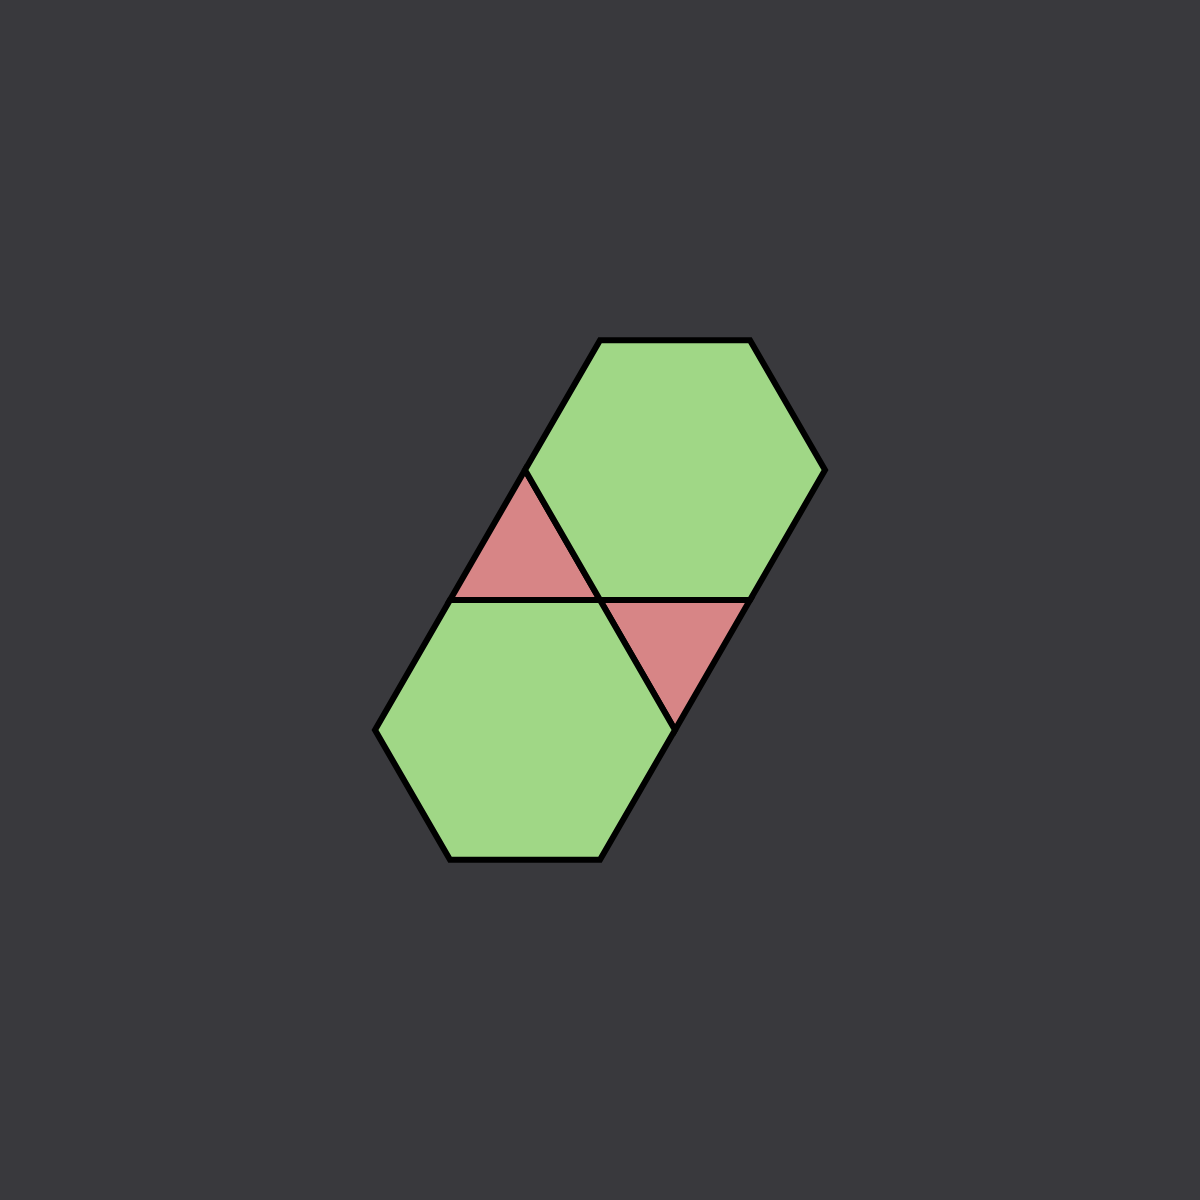
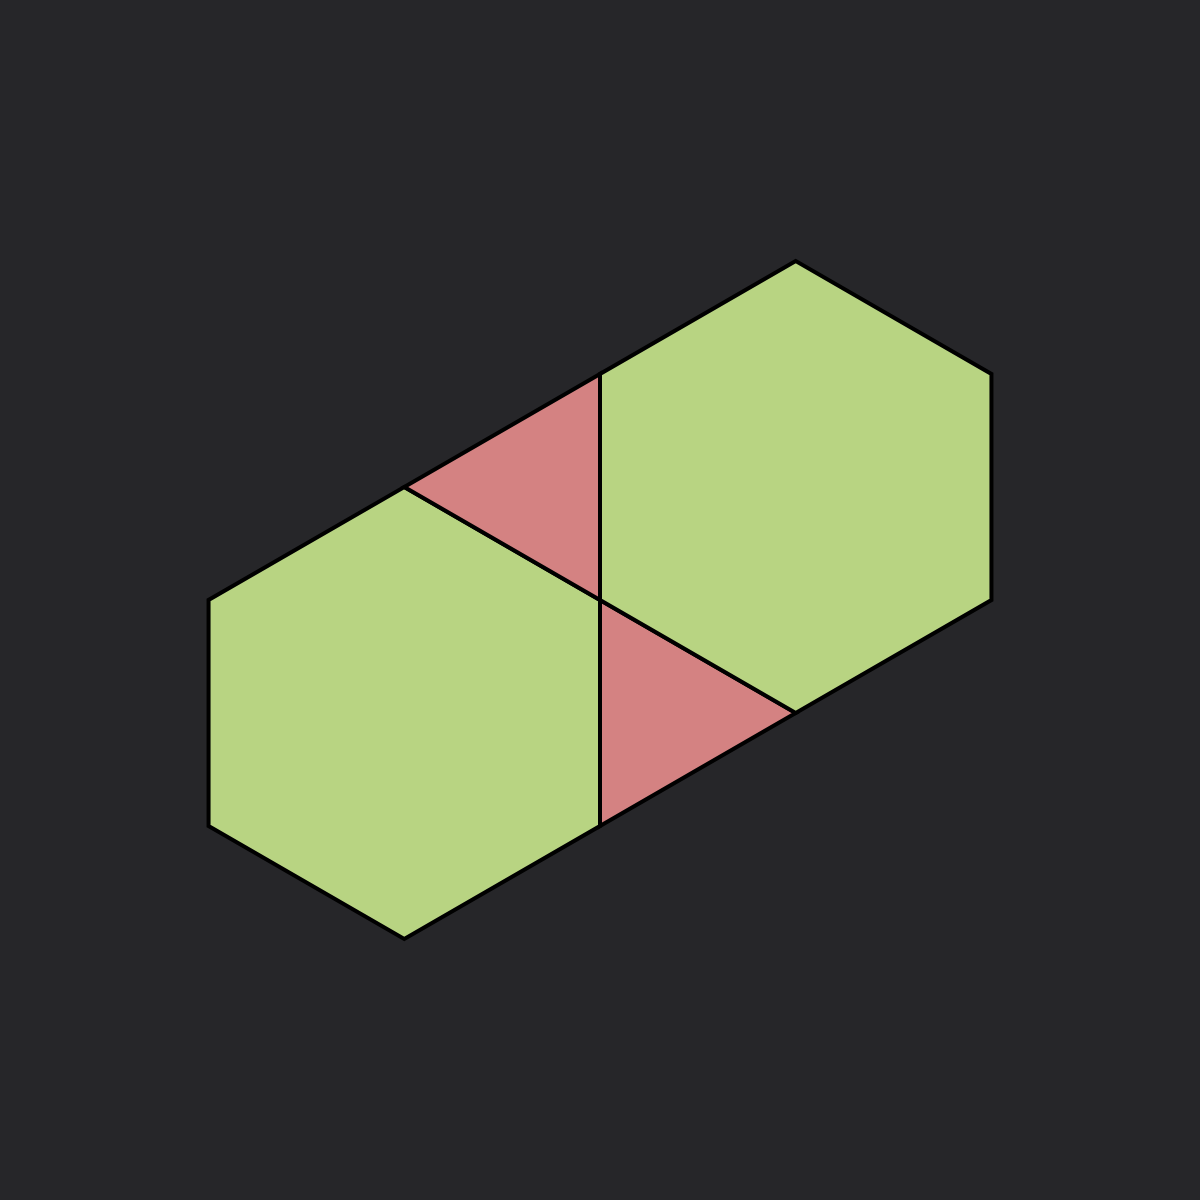
minor fixes

Changed region(s): [[0.1542, 0.2158, 0.8325, 0.8017]]

diff --git a/src/lib/components/Canvas.svelte b/src/lib/components/Canvas.svelte
@@ -1,6 +1,9 @@
 <script>
     import { ruleType, parameter, selectedTiling, showCR, debugView, side, transformSteps, patch, golRule, golRules, showConstructionPoints, showInfo, speed, screenshotButtonHover } from '$lib/stores/configuration.js';
     import { debugManager, debugStore, updateDebugStore } from '$lib/stores/debug.js';
+    import { isWithinTolerance } from '$lib/utils/math.svelte';
+    import { sortPointsByAngleAndDistance } from '$lib/utils/geometry.svelte';
+    import { Vector } from '$lib/classes/Vector.svelte.js';
     import * as ls from 'lucide-svelte';
     import { Tiling } from '$lib/classes/Tiling.svelte.js';
     import { Cr } from '$lib/classes/Cr.svelte.js';
@@ -259,11 +262,10 @@
         p5.takeScreenshot = () => {
             const filename = `${$selectedTiling.rulestring}.png`;
             
-            const screenshotCanvas = p5.createGraphics(600, 600);
-            
+            let screenshotCanvas = p5.createGraphics(600, 600);
+
             screenshotCanvas.colorMode(p5.HSB, 360, 100, 100);
             
-            screenshotCanvas.push();
             screenshotCanvas.translate(0, 600);
             screenshotCanvas.scale(1, -1);
             
@@ -273,8 +275,23 @@
             
             screenshotCanvas.stroke(0);
             screenshotCanvas.strokeWeight(2 / $side);
-            
+
+            let maxX = 0;
+            let maxY = 0;
+            let minX = 0;
+            let minY = 0;
+            for (let i = 0; i < tiling.nodes.length; i++) {
+                for (let j = 0; j < tiling.nodes[i].vertices.length; j++) {
+                    let vertex = tiling.nodes[i].vertices[j];
+                    if (vertex.x > maxX) maxX = vertex.x;
+                    if (vertex.y > maxY) maxY = vertex.y;
+                    if (vertex.x < minX) minX = vertex.x;
+                    if (vertex.y < minY) minY = vertex.y;
+                }
+            }
+
             screenshotCanvas.scale($side);
+            screenshotCanvas.translate(-(maxX + minX) / 2, -(maxY + minY) / 2);
             
             for (let i = 0; i < tiling.nodes.length; i++) {
                 screenshotCanvas.push();
@@ -359,10 +376,8 @@
                 }
             }
             
-            screenshotCanvas.pop();
-            
             p5.saveCanvas(screenshotCanvas, filename, 'png');
-            
+
             screenshotCanvas.remove();
             
             notificationMessage = `Screenshot saved as ${filename}`;

diff --git a/src/lib/classes/Polygon.svelte.js b/src/lib/classes/Polygon.svelte.js
@@ -209,8 +209,8 @@ export class DualPolygon extends Polygon {
         }
         
         let hash = 0;
-        let a = 37;
-        let b = 200;
+        let a = 31;
+        let b = 300;
         for (let i = 0; i < minRotation.length; i++)
             hash = (hash * a + minRotation[i]) % (b * PHI);
         

diff --git a/src/lib/components/Sidebar.svelte b/src/lib/components/Sidebar.svelte
@@ -362,9 +362,9 @@
 									id="side"
 									label="Side Length"
 									bind:value={$side}
-									min={1}
-									max={100}
-									step={1}
+									min={10}
+									max={150}
+									step={5}
 									unit="px"
 								/>
 

diff --git a/static/theory/tilings-and-automata.md b/static/theory/tilings-and-automata.md
@@ -10,7 +10,6 @@ When trying to analyze tilings in a rigorous way, the first thing we need to con
 
 Turns out that there are only 21 ways to do that:
 
-{.cols-10}
 | # | | | | | | | | | | |
 | :---: | :---: | :---: | :---: | :---: | :---: | :---: | :---: | :---: | :---: | :---: |
 | $3$ | ![3.7.42](../theory/images/vertexTypes/3.7.42.png) | ![3.8.24](../theory/images/vertexTypes/3.8.24.png) | ![3.9.18](../theory/images/vertexTypes/3.9.18.png) | ![3.10.15](../theory/images/vertexTypes/3.10.15.png) | ![3.12^2](../theory/images/vertexTypes/3.12^2.png) | ![4.5.20](../theory/images/vertexTypes/4.5.20.png) | ![4.6.12](../theory/images/vertexTypes/4.6.12.png) | ![4.8^2](../theory/images/vertexTypes/4.8^2.png) | ![5^2.10](../theory/images/vertexTypes/5^2.10.png) | ![6^3](../theory/images/vertexTypes/6^3.png) |
@@ -36,10 +35,10 @@ Regular tilings are composed of regular polygons arranged in a way that every ve
 
 Semi-regular tilings use two or more regular polygons, with the same arrangement of polygons at each vertex. There are eight semi-regular tilings (also known as Archimedean tilings):
 
-| ![3^4.6](../tilings/1Usr/6-3-3_r60_r(h5).png) | ![3.3.3.3.6](../tilings/1Usr/4-3_m90_r(h2).png) | ![3.3.3.4](../tilings/1Usr/4-3-3,0,0,0,4_r90_r(h2).png) | ![3.12.12](../tilings/1Usr/6-4-3_m30_r(c2).png) | 
+| ![3^4.6](../tilings/1Usr/6-3-3_r60_r(h5).png) | ![3.3.3.3.6](../tilings/1Usr/4-3_m90_r(h2).png) | ![3.3.3.4](../tilings/1Usr/4-3-3,0,0,0,4_r90_r(h2).png) | ![3.12.12](../tilings/1Usr/6-4-3_m30_r(c2).png) |
 | :---: | :---: | :---: | :---: |
 | $3^4.6$ (Snub trihexagonal)| $3^3.4^2$ (Elongated triangular) | $3^2.4.3.4$ (Snub square) | $3.4.6.4$ (Rhombitrihexagonal) |
-| ![(3.6)^2](../tilings/1Usr/6-3-6_m30_r(v4).png) | ![3.12^2](../tilings/1Usr/12-3_m30_r(h3).png) | ![4.6.12](../tilings/1Usr/12-6,4_m30_r(c2).png) | ![4.8^2](../tilings/1Usr/8-4_m90_r(h4).png) | 
+| ![(3.6)^2](../tilings/1Usr/6-3-6_m30_r(v4).png) | ![3.12^2](../tilings/1Usr/12-3_m30_r(h3).png) | ![4.6.12](../tilings/1Usr/12-6,4_m30_r(c2).png) | ![4.8^2](../tilings/1Usr/8-4_m90_r(h4).png) |
 | $(3.6)^2$ (Trihexagonal) | $3.12^2$ (Truncated hexagonal) | $4.6.12$ (Truncated trihexagonal) | $4.8^2$ (Truncated square) |
 
 Tilings can be categorized based on various properties:
@@ -77,6 +76,7 @@ The Game of Life is a cellular automaton devised by mathematician John Conway in
 ### Rules
 
 The classic Game of Life follows the B3/S23 rule:
+
 - A dead cell with exactly 3 live neighbors becomes alive (Birth).
 - A live cell with 2 or 3 live neighbors survives (Survival).
 - In all other cases, cells die or remain dead.
@@ -84,6 +84,7 @@ The classic Game of Life follows the B3/S23 rule:
 ### Patterns
 
 Various patterns can emerge:
+
 - Still lifes: Patterns that don't change
 - Oscillators: Patterns that repeat after a fixed number of generations
 - Spaceships: Patterns that translate across the grid
@@ -108,6 +109,3 @@ Our implementation allows cellular automata to run on various tiling patterns be
 # Our study
 
 ## Idea
-
-
-
